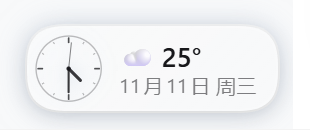
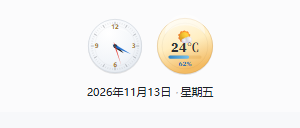
docs: 刷新徽章与面板截图，README 同步双表盘/日期条/设置抽屉
test: 增加 node:test 无头组件测试
i18n: 设置区文案接入中英文字典

diff --git a/lib/client.js b/lib/client.js
@@ -409,7 +409,35 @@ window.__ModuleLoader__.load({
       'today': '今天',
       'tomorrow': '明天',
       'wd0': '周日', 'wd1': '周一', 'wd2': '周二', 'wd3': '周三', 'wd4': '周四', 'wd5': '周五', 'wd6': '周六',
+      'settings': '设置',
+      'settings.expand': '展开设置',
+      'settings.collapse': '收起设置',
+      'settings.theme': '表盘主题',
+      'settings.font': '字体',
+      'settings.time': '时间源',
+      'settings.bar': '日期条',
+      'settings.wxshape': '天气表盘',
+      'settings.clockshape': '时钟表盘',
+      'settings.local': '本机',
+      'settings.net': '网络',
+      'settings.localHint': '使用本机时钟',
+      'settings.netHint': '使用网络时间（自动校准本机时钟偏差）',
+      'settings.show': '显示',
+      'settings.hide': '隐藏',
+      'settings.showHint': '显示日期条',
+      'settings.hideHint': '隐藏日期条',
+      'settings.circle': '圆形',
+      'settings.square': '方形',
+      'settings.circleWx': '圆形天气表盘',
+      'settings.squareWx': '方形天气表盘',
+      'settings.circleClock': '圆形时钟表盘',
+      'settings.squareClock': '方形时钟表盘',
+      'theme.ivory': '白金', 'theme.mist': '雾蓝', 'theme.sand': '暖米',
+      'theme.lilac': '薄紫', 'theme.graphite': '石墨', 'theme.jade': '青瓷',
+      'font.kai': '楷体', 'font.song': '宋体', 'font.times': 'Times',
+      'font.hei': '黑体', 'font.mono': '等宽',
     }
+
     var EN = {
       'type.label': 'Weather',
       'guide.title': 'Weather forecast',
@@ -434,6 +462,44 @@ window.__ModuleLoader__.load({
       'today': 'Today',
       'tomorrow': 'Tomorrow',
       'wd0': 'Sun', 'wd1': 'Mon', 'wd2': 'Tue', 'wd3': 'Wed', 'wd4': 'Thu', 'wd5': 'Fri', 'wd6': 'Sat',
+      'settings': 'Settings',
+      'settings.expand': 'Expand settings',
+      'settings.collapse': 'Collapse settings',
+      'settings.theme': 'Dial theme',
+      'settings.font': 'Font',
+      'settings.time': 'Time source',
+      'settings.bar': 'Date bar',
+      'settings.wxshape': 'Weather dial',
+      'settings.clockshape': 'Clock dial',
+      'settings.local': 'Local',
+      'settings.net': 'Network',
+      'settings.localHint': 'Use the local clock',
+      'settings.netHint': 'Use network time (corrects local clock drift)',
+      'settings.show': 'Show',
+      'settings.hide': 'Hide',
+      'settings.showHint': 'Show the date bar',
+      'settings.hideHint': 'Hide the date bar',
+      'settings.circle': 'Circle',
+      'settings.square': 'Square',
+      'settings.circleWx': 'Circular weather dial',
+      'settings.squareWx': 'Square weather dial',
+      'settings.circleClock': 'Circular clock dial',
+      'settings.squareClock': 'Square clock dial',
+      'theme.ivory': 'Ivory', 'theme.mist': 'Mist', 'theme.sand': 'Sand',
+      'theme.lilac': 'Lilac', 'theme.graphite': 'Graphite', 'theme.jade': 'Jade',
+      'font.kai': 'Kai', 'font.song': 'Song', 'font.times': 'Times',
+      'font.hei': 'Hei', 'font.mono': 'Mono',
+    }
+
+
+    /** 当前界面是否中文：用于日期与星期的排版，两种语言各写一套。 */
+    function localeIsZh(t) {
+      try {
+        // 平台没有直接暴露当前语言，用一条已知译文的实际结果反推。
+        return t('back') !== EN['back']
+      } catch (error) {
+        return true
+      }
     }
 
     /** Namespace translator with a zh fallback and {param} interpolation. */
@@ -928,13 +994,13 @@ window.__ModuleLoader__.load({
           type: 'button',
           className: 'dshw-settings-entry',
           'data-open': settingsOpen[0] ? '1' : '0',
-          title: settingsOpen[0] ? '收起设置' : '展开设置',
-          'aria-label': '设置',
+          title: settingsOpen[0] ? t('settings.collapse') : t('settings.expand'),
+          'aria-label': t('settings'),
           'aria-expanded': settingsOpen[0] ? 'true' : 'false',
           onClick: () => settingsOpen[1](!settingsOpen[0]),
         },
           h('span', { key: 'ico', className: 'dshw-settings-ico' }, '\u2699'),
-          h('span', { key: 'txt' }, '设置'),
+          h('span', { key: 'txt' }, t('settings')),
         ),
         h('button', {
           key: 'refresh',
@@ -953,15 +1019,15 @@ window.__ModuleLoader__.load({
 
       // Dial theme picker: six themes, shared with the account chip.
       settingsRows.push(h('div', { key: 'dial', className: 'dshw-dial-row' },
-        h('span', { className: 'dshw-dial-label' }, '表盘主题'),
+        h('span', { className: 'dshw-dial-label' }, t('settings.theme')),
         h('div', { className: 'dshw-dial-swatches' },
           DIAL_THEMES.map((item) => h('button', {
             key: item.id,
             type: 'button',
             className: 'dshw-dial-swatch',
             'data-active': item.id === dialState[0] ? '1' : '0',
-            title: item.label,
-            'aria-label': item.label,
+            title: t('theme.' + item.id),
+            'aria-label': t('theme.' + item.id),
             onClick: () => dialState[1](item.id),
           }, h(DialSwatch, { id: item.id, shape: clockShapeState[0] }))),
         ),
@@ -969,7 +1035,7 @@ window.__ModuleLoader__.load({
 
       // Font picker: same five stacks, shared with the account chip.
       settingsRows.push(h('div', { key: 'font', className: 'dshw-dial-row' },
-        h('span', { className: 'dshw-dial-label' }, '字体'),
+        h('span', { className: 'dshw-dial-label' }, t('settings.font')),
         h('div', { className: 'dshw-dial-swatches' },
           FONT_CHOICES.map((item) => h('button', {
             key: item.id,
@@ -977,102 +1043,102 @@ window.__ModuleLoader__.load({
             className: 'dshw-font',
             style: { fontFamily: item.stack },
             'data-active': item.id === fontState[0] ? '1' : '0',
-            title: item.label,
-            'aria-label': item.label,
+            title: t('font.' + item.id),
+            'aria-label': t('font.' + item.id),
             onClick: () => fontState[1](item.id),
-          }, item.label)),
+          }, t('font.' + item.id))),
         ),
       ))
 
       // Time source switch: local clock or network time.
       settingsRows.push(h('div', { key: 'nettime', className: 'dshw-dial-row' },
-        h('span', { className: 'dshw-dial-label' }, '时间源'),
+        h('span', { className: 'dshw-dial-label' }, t('settings.time')),
         h('div', { className: 'dshw-dial-swatches' },
           h('button', {
             key: 'local',
             type: 'button',
             className: 'dshw-font',
             'data-active': netTimeState[0] ? '0' : '1',
-            title: '使用本机时钟',
+            title: t('settings.localHint'),
             onClick: () => netTimeState[1](false),
-          }, '本机'),
+          }, t('settings.local')),
           h('button', {
             key: 'net',
             type: 'button',
             className: 'dshw-font',
             'data-active': netTimeState[0] ? '1' : '0',
-            title: '使用网络时间（自动校准本机时钟偏差）',
+            title: t('settings.netHint'),
             onClick: () => netTimeState[1](true),
-          }, '网络'),
+          }, t('settings.net')),
         ),
       ))
 
       // Date-bar switch: hide the whole line under the account row.
       settingsRows.push(h('div', { key: 'info', className: 'dshw-dial-row' },
-        h('span', { className: 'dshw-dial-label' }, '日期条'),
+        h('span', { className: 'dshw-dial-label' }, t('settings.bar')),
         h('div', { className: 'dshw-dial-swatches' },
           h('button', {
             key: 'on',
             type: 'button',
             className: 'dshw-font',
             'data-active': infoState[0] ? '1' : '0',
-            title: '显示日期条',
+            title: t('settings.showHint'),
             onClick: () => infoState[1](true),
-          }, '显示'),
+          }, t('settings.show')),
           h('button', {
             key: 'off',
             type: 'button',
             className: 'dshw-font',
             'data-active': infoState[0] ? '0' : '1',
-            title: '隐藏日期条',
+            title: t('settings.hideHint'),
             onClick: () => infoState[1](false),
-          }, '隐藏'),
+          }, t('settings.hide')),
         ),
       ))
 
       // Weather dial outline switch: circle or square.
       settingsRows.push(h('div', { key: 'wxshape', className: 'dshw-dial-row' },
-        h('span', { className: 'dshw-dial-label' }, '天气表盘'),
+        h('span', { className: 'dshw-dial-label' }, t('settings.wxshape')),
         h('div', { className: 'dshw-dial-swatches' },
           h('button', {
             key: 'circle',
             type: 'button',
             className: 'dshw-font',
             'data-active': shapeState[0] === 'circle' ? '1' : '0',
-            title: '圆形天气表盘',
+            title: t('settings.circleWx'),
             onClick: () => shapeState[1]('circle'),
-          }, '圆形'),
+          }, t('settings.circle')),
           h('button', {
             key: 'square',
             type: 'button',
             className: 'dshw-font',
             'data-active': shapeState[0] === 'square' ? '1' : '0',
-            title: '方形天气表盘',
+            title: t('settings.squareWx'),
             onClick: () => shapeState[1]('square'),
-          }, '方形'),
+          }, t('settings.square')),
         ),
       ))
 
       // Clock dial outline switch: circle or square.
       settingsRows.push(h('div', { key: 'clockshape', className: 'dshw-dial-row' },
-        h('span', { className: 'dshw-dial-label' }, '时钟表盘'),
+        h('span', { className: 'dshw-dial-label' }, t('settings.clockshape')),
         h('div', { className: 'dshw-dial-swatches' },
           h('button', {
             key: 'circle',
             type: 'button',
             className: 'dshw-font',
             'data-active': clockShapeState[0] === 'circle' ? '1' : '0',
-            title: '圆形时钟表盘',
+            title: t('settings.circleClock'),
             onClick: () => clockShapeState[1]('circle'),
-          }, '圆形'),
+          }, t('settings.circle')),
           h('button', {
             key: 'square',
             type: 'button',
             className: 'dshw-font',
             'data-active': clockShapeState[0] === 'square' ? '1' : '0',
-            title: '方形时钟表盘',
+            title: t('settings.squareClock'),
             onClick: () => clockShapeState[1]('square'),
-          }, '方形'),
+          }, t('settings.square')),
         ),
       ))
 
@@ -1978,9 +2044,15 @@ window.__ModuleLoader__.load({
         : current && current.isDay === 0 ? false
         : now.getHours() >= 6 && now.getHours() < 18
       var theme = themeOf(current ? current.weatherCode : null, isDay)
-      var weekday = ['星期日', '星期一', '星期二', '星期三', '星期四', '星期五', '星期六'][now.getDay()]
+      // 日期与星期按界面语言排版：中文「2026年11月13日 / 星期五」，英文「Nov 13, 2026 / Friday」。
+      var zh = localeIsZh(t)
+      var weekday = zh
+        ? ['星期日', '星期一', '星期二', '星期三', '星期四', '星期五', '星期六'][now.getDay()]
+        : ['Sunday', 'Monday', 'Tuesday', 'Wednesday', 'Thursday', 'Friday', 'Saturday'][now.getDay()]
       var clock = pad2(now.getHours()) + ':' + pad2(now.getMinutes()) + ':' + pad2(now.getSeconds())
-      var dateText = now.getFullYear() + '年' + (now.getMonth() + 1) + '月' + now.getDate() + '日'
+      var dateText = zh
+        ? now.getFullYear() + '年' + (now.getMonth() + 1) + '月' + now.getDate() + '日'
+        : ['Jan', 'Feb', 'Mar', 'Apr', 'May', 'Jun', 'Jul', 'Aug', 'Sep', 'Oct', 'Nov', 'Dec'][now.getMonth()] + ' ' + now.getDate() + ', ' + now.getFullYear()
       // 关掉日期条时整条不渲染：宿主是独立一行，不渲染就等于不占高度。
       if (!infoState[0]) return null
       return h('button', {
